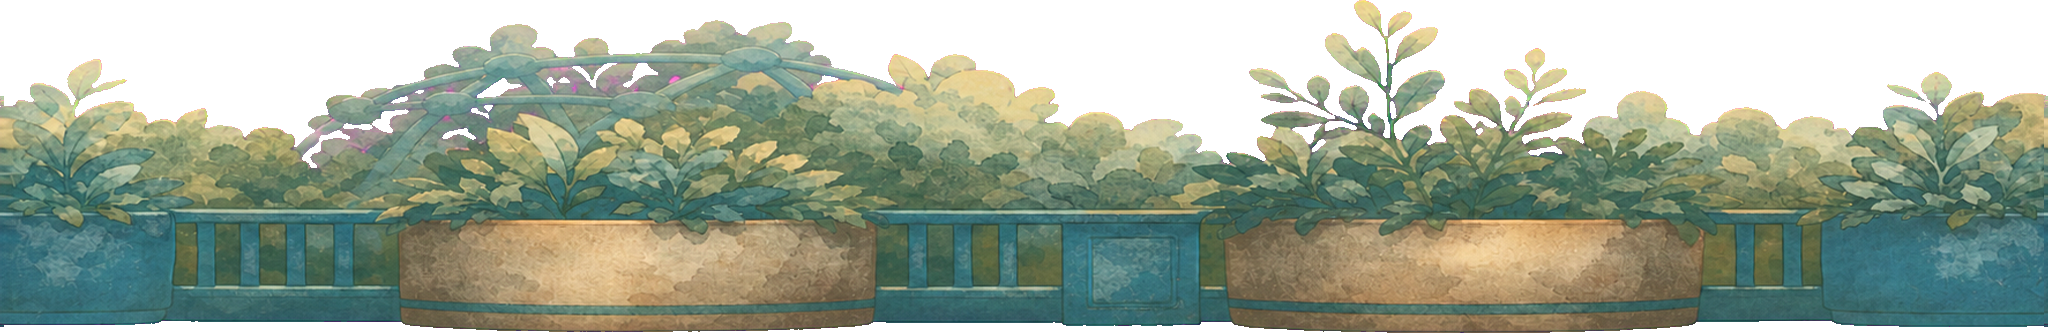
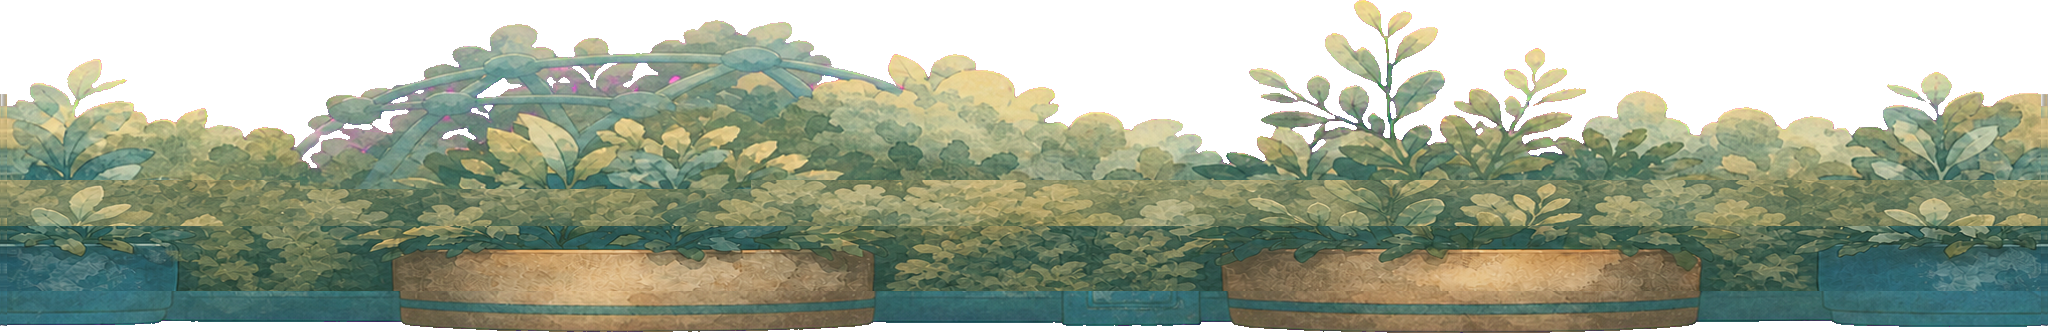
R5-N3 · A4b — Die gemalte Wand steht, und das Tor hat den Unterschied gelernt
AS3 und AT2 sind angenommen — und zwar von demselben Tor, das AS2 und AT
abgelehnt hat. Der Unterschied ist gemessen, nicht behauptet.

DAS TOR HAT DAZUGELERNT. »Einen Pixel weiter innen schauen« reicht nicht: ein
RICHTIG geblendetes Blatt hat an der Naht ebenfalls identische Pixel. Beide
fangen gleich an, sie trennen sich erst danach. Also wird die Naht jetzt als
PROFIL gemessen (k = 0…8) und ihre FORM beurteilt:

  AS3 (echte Überblendung)   0,00 · 0,00 · 0,00 · 1,64 · 3,39 · 5,17 · 6,93
  AS2 (aufgeklebte Spalte)  13,72 · 45,17 · 49,72 · 55,40 · 61,16 · 69,71

Eine geblendete Naht klettert nicht schneller aus sich heraus als die eigene
Textur des Bildes; eine versteckte SPRINGT. Beide Fälle stehen als Fixture: der
alte Stapel fällt weiterhin mit 11/11 durch, der neue besteht mit 0,26–0,62×.

DIE GEMALTE WAND STEHT (p1): vier Körper-Varianten statt zwei geteilter, plus
eine gemalte Tiefen-Reihe — die untere Hälfte des Körperbandes zeichnet jetzt
PIGMENT statt einer stärkeren Multiplikation. Das ist die »Kachel mit einem
Filter« an ihrer Wurzel.

D-50 IST FÄLLIG GEWORDEN UND BEHOBEN: `BAND_HANDOVER.body = 0,52` war kein
Gesetz, sondern eine Messung an den GETEILTEN Blättern. p1s gemaltes
Tiefenpapier ist dunkler, also blieb dieselbe Wanderung 10 Punkte zu früh
stehen und der Bandwechsel wurde zur Kante. Der Übergang ist jetzt aus der
Kunst abgeleitet (0,301) und landet exakt auf dem eigenen Tiefenpapier:
[…]

Changed region(s): [[0.0, 0.5405, 1.0, 0.8709]]

diff --git a/packages/game-paint/src/composition.test.ts b/packages/game-paint/src/composition.test.ts
@@ -21,6 +21,7 @@ import {
   RAMP_ROWS,
   BODY_DEEP_AT,
   BODY_DEEP_SHADE,
+  BODY_HANDOVER_PAINTED,
   SEDIMENT_DEPTH,
   bandAt,
   depthBucketAt,
@@ -303,18 +304,20 @@ describe("the carved mass (doc 36 §2)", () => {
     // different sets of measured values — a law that only worked for the sheets
     // it was tuned on would be a coincidence, not a law.
     const ART_LUM = { body: 46.2, bodyDeep: null, fade: 16.6, sediment: 4.8 } as const;
-    const P1_LUM = { body: 45.94, bodyDeep: 31.67, fade: 16.6, sediment: 4.8 } as const;
+    const P1_LUM = { body: 46.01, bodyDeep: 30.30, fade: 13.84, sediment: 4.8 } as const;
     const lumOfTint = (t: number): number =>
       (((t >> 16) & 255) * 0.2126 + ((t >> 8) & 255) * 0.7152 + (t & 255) * 0.0722) / 255;
     /** what the child actually sees: painted value × the multiply laid over it */
     const drawnWith = (art: { body: number; bodyDeep: number | null; fade: number; sediment: number }) =>
       (d: number): number => {
+        const painted = art.bodyDeep !== null;
+        const H = painted ? BODY_HANDOVER_PAINTED : undefined;
         const band = bandAt(d);
-        if (band !== "body") return art[band] * depthShadeAt(d);
-        const deep = art.bodyDeep !== null && d >= BODY_DEEP_AT;
+        if (band !== "body") return art[band] * depthShadeAt(d, H);
+        const deep = painted && d >= BODY_DEEP_AT;
         const pigment = deep && art.bodyDeep !== null ? art.bodyDeep : art.body;
         // the deep row's own darkness is divided back out of the multiply
-        const shade = deep ? Math.min(1, depthShadeAt(d) / BODY_DEEP_SHADE) : depthShadeAt(d);
+        const shade = deep ? Math.min(1, depthShadeAt(d, H) / BODY_DEEP_SHADE) : depthShadeAt(d, H);
         return pigment * shade;
       };
     const drawnAt = drawnWith(ART_LUM);
@@ -328,8 +331,13 @@ describe("the carved mass (doc 36 §2)", () => {
 
     it.each(KITS)("falls MONOTONICALLY through both changes of paper — no cliff, no step back up (%s)", (_name, art) => {
       const drawn = drawnWith(art);
+      // 0.01 rather than 0: ART_LUM/P1_LUM are MEASUREMENTS of the shipped
+      // sheets, carried to two decimals. A painted kit's handover is derived
+      // from them, so the last body row lands on the fade paper to within a few
+      // ten-thousandths of a point — equality beyond the inputs' own precision
+      // is noise, not brightening.
       for (let d = 1; d < 30; d++) {
-        expect(drawn(d)).toBeLessThanOrEqual(drawn(d - 1) + 1e-9);
+        expect(drawn(d)).toBeLessThanOrEqual(drawn(d - 1) + 0.01);
       }
     });
 
@@ -340,22 +348,25 @@ describe("the carved mass (doc 36 §2)", () => {
       const joinB = drawn(SEDIMENT_DEPTH - 1) - drawn(SEDIMENT_DEPTH);
       expect(joinA).toBeLessThan(10); // was 46.2 → 16.6 = 29.6 points in one row
       expect(joinB).toBeLessThan(5); //  was 16.6 →  4.8 = 11.8 points in one row
-      expect(joinA).toBeGreaterThanOrEqual(0);
-      expect(joinB).toBeGreaterThanOrEqual(0);
+      expect(joinA).toBeGreaterThanOrEqual(-0.01);
+      expect(joinB).toBeGreaterThanOrEqual(-0.01);
     });
 
     it("swapping in the painted deep row does NOT double-darken the band", () => {
-      // The whole point of BODY_DEEP_SHADE: the composed value at every body
-      // depth must stay within a point or two of what the multiply-only ramp
-      // drew, while the darkness itself comes from paint. If the division were
-      // dropped, depth 3 would land near 45.94 × 0.689 × 0.52 = 16.5 % — a
-      // 7-point hole punched into the middle of the body band.
+      // The point of BODY_DEEP_SHADE and BODY_HANDOVER_PAINTED together: the
+      // darkness moves into PIGMENT without the multiply darkening it a second
+      // time. Drop either and depth 3 falls off a cliff — with the division gone
+      // it would land near 46.01 × 0.659 × 0.52 = 15.8 while its neighbour sits
+      // at 24.6. So the law is that the body band falls in EVEN steps.
       const painted = drawnWith(P1_LUM);
-      const shared = drawnWith(ART_LUM);
-      for (let d = 0; d < FADE_DEPTH; d++) {
-        // both kits are ~46 % paper, so their drawn body values must track
-        expect(Math.abs(painted(d) - shared(d))).toBeLessThan(2.5);
-      }
+      const steps: number[] = [];
+      for (let d = 1; d < FADE_DEPTH; d++) steps.push(painted(d - 1) - painted(d));
+      const biggest = Math.max(...steps);
+      const smallest = Math.min(...steps);
+      expect(smallest).toBeGreaterThan(0);
+      expect(biggest / smallest).toBeLessThan(1.35);
+      // …and it arrives exactly on the fade paper it hands over to
+      expect(Math.abs(painted(FADE_DEPTH - 1) - P1_LUM.fade)).toBeLessThan(0.01);
     });
 
     it.each(KITS)("keeps the deepest paper READABLE — the darkest dark is still a colour (%s)", (_name, art) => {

diff --git a/packages/game-paint/src/mass.ts b/packages/game-paint/src/mass.ts
@@ -188,23 +188,40 @@ export const DEPTH_COOL = { r: 0.34, g: 0.18 } as const;
 export const BODY_DEEP_AT = 2;
 /**
  * …and how much darker that row actually is, measured on the shipped p1 sheet:
- * 31.67 % against row 1's 45.94 %. The multiply is divided by this, so the
+ * 30.30 % against row 1's 46.01 %. The multiply is divided by this, so the
  * composed value keeps following the same smooth curve while the darkness
  * itself moves out of the tint and into the pigment.
  *
  * It is a MEASUREMENT, not a preference, so `composition.test.ts` re-derives it
  * from the shipped art: repaint the deep row and the test says so.
  */
-export const BODY_DEEP_SHADE = 0.689;
+export const BODY_DEEP_SHADE = 0.659;
+/**
+ * …and where the body band has to ARRIVE when a kit is painted (D-50, come due).
+ *
+ * `BAND_HANDOVER.body = 0.52` is not a general truth — it was measured to land
+ * the shared body (46.2 %) on the shared fade (16.6 %). p1's painted deep paper
+ * is 13.84 %, darker relative to its own body, so the same walk stops 10 points
+ * short and the band change becomes a visible edge. The handover is therefore
+ * ART, and a painted kit brings its own:
+ *
+ *   H = BODY_DEEP_SHADE × (fade / bodyDeep) = 0.659 × (13.84 / 30.30) = 0.301
+ *
+ * which lands the last body row exactly on the fade paper's own value — the drawn
+ * chain becomes 46.0 → 35.3 → 24.6 → 13.8, three even steps and no join at all.
+ * `check-composition` re-derives it from the shipped sheets, so a repaint that
+ * moves either value fails loudly instead of reopening the seam.
+ */
+export const BODY_HANDOVER_PAINTED = 0.301;
 
 /** Which painted sheet a cell this deep is laid in. */
 export const bandAt = (d: number): "body" | "fade" | "sediment" =>
   d >= SEDIMENT_DEPTH ? "sediment" : d >= FADE_DEPTH ? "fade" : "body";
 
 /** The multiply a cell this deep wears, 1 at the surface, falling monotonically. */
-export const depthShadeAt = (d: number): number => {
+export const depthShadeAt = (d: number, bodyHandover: number = BAND_HANDOVER.body): number => {
   const band = bandAt(d);
-  if (band === "body") return 1 - (1 - BAND_HANDOVER.body) * (Math.min(d, FADE_DEPTH - 1) / (FADE_DEPTH - 1));
+  if (band === "body") return 1 - (1 - bodyHandover) * (Math.min(d, FADE_DEPTH - 1) / (FADE_DEPTH - 1));
   if (band === "fade") {
     return 1 - (1 - BAND_HANDOVER.fade) * ((d - FADE_DEPTH) / (SEDIMENT_DEPTH - 1 - FADE_DEPTH));
   }
@@ -217,8 +234,8 @@ export const depthShadeAt = (d: number): number => {
  * distance rather than as dirt, and the darkest dark in the book is still a
  * colour rather than an absence of one.
  */
-export const depthTintAt = (d: number, pigmentShade = 1): number => {
-  const total = depthShadeAt(d);
+export const depthTintAt = (d: number, pigmentShade = 1, bodyHandover: number = BAND_HANDOVER.body): number => {
+  const total = depthShadeAt(d, bodyHandover);
   // The multiply only has to carry the part of the fall the PAINT does not.
   // `cool` still tracks the TRUE depth, not the reduced multiply — otherwise a
   // deeper-painted row would read as nearer, which is the opposite of the point.
@@ -1034,7 +1051,12 @@ export const planMass = (
           // — the five lights are what audit 6 counts as variety, and a ramp
           // that replaced them instead of scaling them would turn a long floor
           // back into wallpaper while looking, to the eye, like a fix.
-          tint: mixMultiply(courseTintAt(c, r, k, 11), depthTintAt(bucket, deepBody === undefined ? 1 : BODY_DEEP_SHADE)),
+          tint: mixMultiply(
+            courseTintAt(c, r, k, 11),
+            kit.bodyDeep === undefined
+              ? depthTintAt(bucket)
+              : depthTintAt(bucket, deepBody === undefined ? 1 : BODY_DEEP_SHADE, BODY_HANDOVER_PAINTED),
+          ),
           depth: DEPTH.body,
         });
         seg = segEnd + 1;

diff --git a/packages/game-paint/src/composition.ts b/packages/game-paint/src/composition.ts
@@ -484,34 +484,20 @@ const PLAT_OBJECTS: Record<string, MassKit["platObjects"]> = {
  * phase here before its sheets land reds the gate. Add a phase on the same
  * commit that adds its art, never before.
  *
- * EMPTY TODAY, and that is a measured verdict rather than an unfinished
- * sentence. Batch AS2's p1 sheets were rejected at import: eight of its ten
- * interior cells do not tile with themselves, by 2.8× to 6.5× their own painted
- * texture. The sheet passes a naive seam test only because every cell's boundary
- * row and column are DUPLICATES of the opposite edge — the step is one pixel
- * further in, where the naive metric never looks. The two cells that do tile are
- * exactly as many variants as the shared body already has, so wiring them would
- * add a per-phase code path and change nothing a child could see.
- *
- * Everything below this line is the seam AS3 lands on: `paintedInterior`, the
- * `bodyDeep` band, and the depth-law tests that already prove the ramp holds for
- * a painted kit. Add "p1" here on the commit that adds art which passes
- * `node docs/art/import-batch-as.mjs`.
+ * Batch AS2 was REJECTED here for a measured reason worth keeping: every one of
+ * its cells duplicated its boundary row and column, so a naive seam test read a
+ * perfect 0.00 while the picture jumped 25–52 one pixel further in. AS3 re-cut
+ * the same sheets with a real cross-fade — the join is still 0.00, but now the
+ * picture climbs out of it at 0.26–0.62× the painting's own texture instead of
+ * jumping. The import gate tells the two apart and holds both cases as fixtures.
  */
-const PAINTED_MASS_PHASES = new Set<string>();
+const PAINTED_MASS_PHASES = new Set(["p1"]);
 
 const paintedInterior = (phase: string): Pick<MassKit, "body" | "bodyDeep" | "fade" | "sediment"> => ({
-  // Three variants, not the sheet's four: the `_a` column of both rows joins at
-  // 2.0–2.5× its own texture, so the import gate refuses it (import-batch-as.mjs).
-  // Three still beats the two the shared body has, and Audit 6 counts variety.
-  body: [`mass_body_${phase}_b`, `mass_body_${phase}_c`, `mass_body_${phase}_d`],
-  bodyDeep: [`mass_bodydeep_${phase}_b`, `mass_bodydeep_${phase}_c`, `mass_bodydeep_${phase}_d`],
-  // The deep paper stays shared too, for a measured reason rather than caution:
-  // neither delivered fade cell tiles with itself (joins of 13.97 and 15.62
-  // against their own mean steps of 4.34 and 4.39 — 3.2× and 3.6×), so drawn as
-  // a tiling surface they would put a vertical seam through the whole band every
-  // ~41 world px. The import gate refuses them; AS3 re-cuts them.
-  fade: ["mass_fade"],
+  // Four variants where the shared body has two — and Audit 6 counts variety.
+  body: [`mass_body_${phase}_a`, `mass_body_${phase}_b`, `mass_body_${phase}_c`, `mass_body_${phase}_d`],
+  bodyDeep: [`mass_bodydeep_${phase}_a`, `mass_bodydeep_${phase}_b`, `mass_bodydeep_${phase}_c`, `mass_bodydeep_${phase}_d`],
+  fade: [`mass_fade_${phase}_a`, `mass_fade_${phase}_b`],
   // THE SEDIMENT STAYS SHARED, and the reason is measured rather than cautious.
   // Koki's AUFHELLEN ruling raised the commissioned sediment from today's 4.8 %
   // to 7–10 %, and AS2 painted it at 8.78 %. But BAND_HANDOVER.fade = 0.55 was
